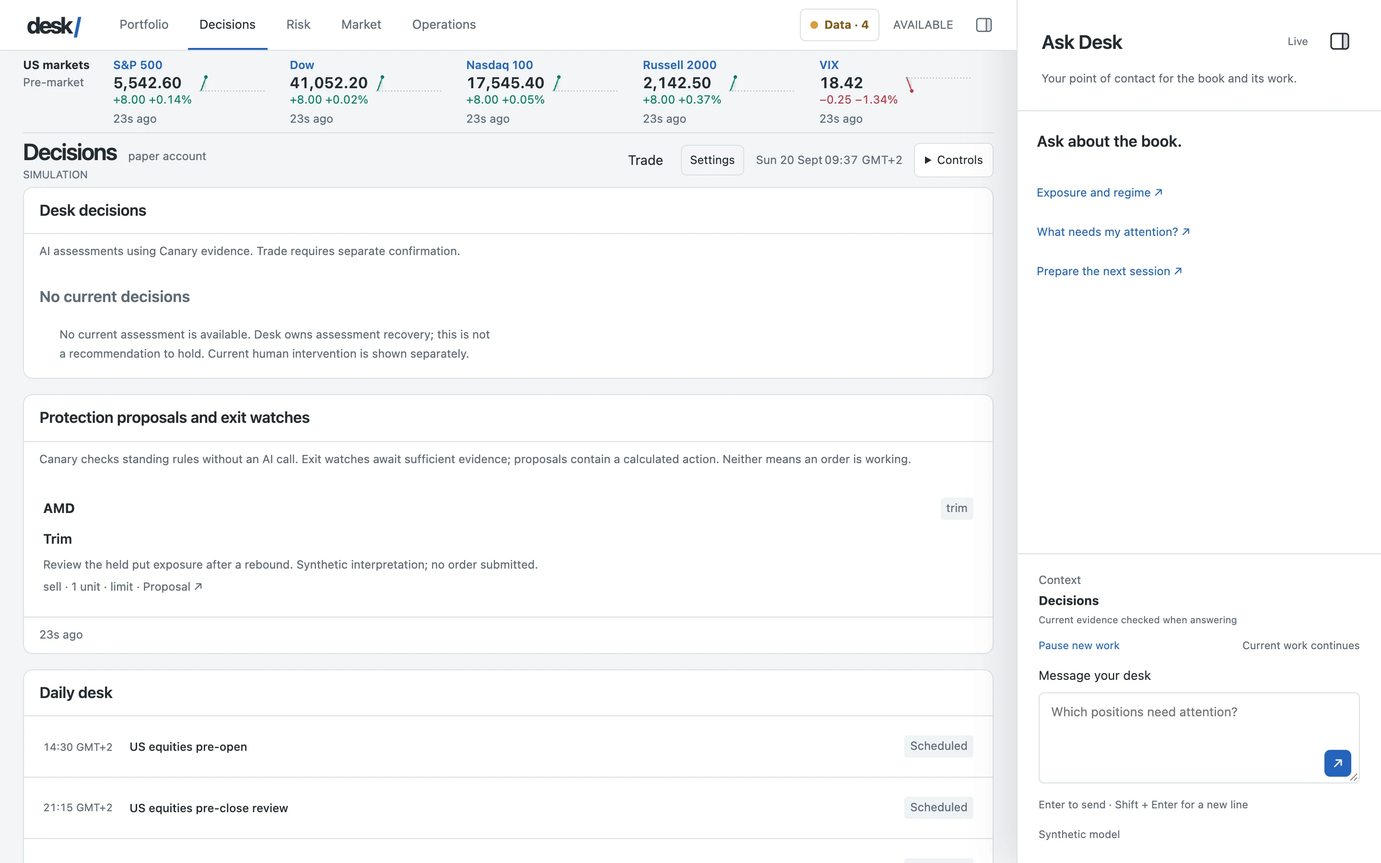
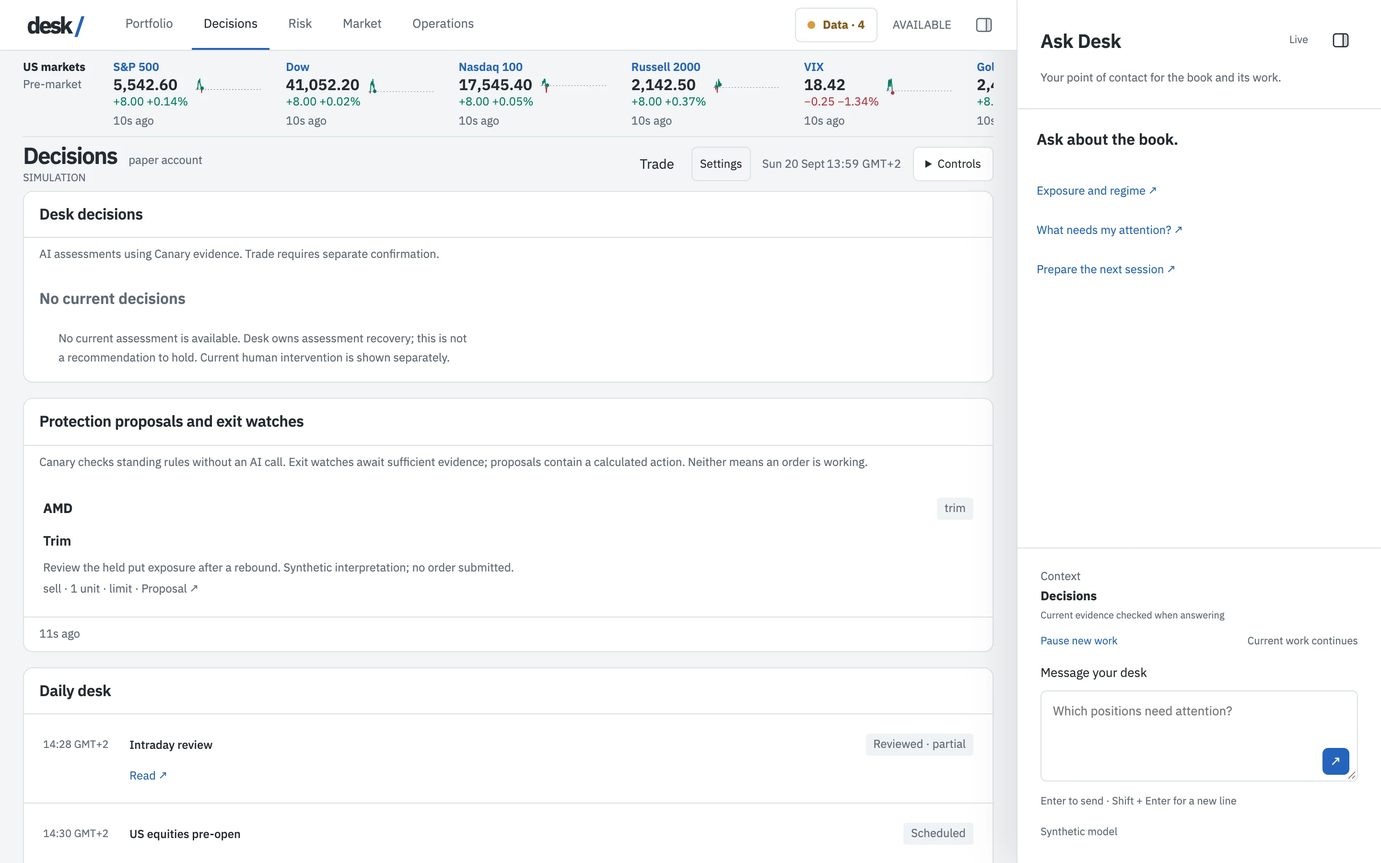
Cut the landing to punch lines, add the Desk wordmark and refresh the screenshots
- Landing: one punch line and three fragments per panel, the stack sentence
  folded into the lead, the "desk /" wordmark on the Desk panel.
- assets/desk-wordmark.svg draws the console's text wordmark from the Plex
  Bold outlines, since Desk has no logo file by design.
- Desk and Torok pages rewritten in shorter, plainer first-person copy.
- Screenshots recaptured from the improved simulation: the performance panel
  with its SPY comparison, five-minute intraday paths, statement-based P&L.
- The system diagram drops the "Phone" node, which no documented transport
  supports; the owner column is respaced.
- The capture script waits for Chrome to exit before removing its profile.

diff --git a/desk/index.html b/desk/index.html
@@ -4,14 +4,14 @@
   <meta charset="utf-8">
   <meta name="viewport" content="width=device-width, initial-scale=1">
   <title>Desk | osauer.dev</title>
-  <meta name="description" content="Desk is a private, continuously running investment agent for one Interactive Brokers book, built on Torok, Canary and HyperServe. What it does, how it is put together, and what it looks like.">
+  <meta name="description" content="Desk is the private agent that runs one Interactive Brokers book: scheduled reviews, decisions with dated evidence, a reviewed chat, and trading that needs a passkey. Built on Torok, Canary and HyperServe.">
   <link rel="canonical" href="https://osauer.dev/desk/">
   <link rel="icon" type="image/svg+xml" href="../assets/favicon.svg">
   <link rel="stylesheet" href="../assets/site.css">
   <meta property="og:type" content="website">
   <meta property="og:url" content="https://osauer.dev/desk/">
-  <meta property="og:title" content="Desk | a private investment agent that shows its work">
-  <meta property="og:description" content="A continuously running desk for one Interactive Brokers book: scheduled reviews, evidence-bound decisions, a reviewed chat, and trading that stays a human act.">
+  <meta property="og:title" content="Desk | one book, watched all day">
+  <meta property="og:description" content="A private investment agent for one Interactive Brokers book: scheduled reviews, decisions with dated evidence, a reviewed chat, and orders that need a passkey.">
   <meta property="og:image" content="https://osauer.dev/assets/desk-overview-social.jpg">
   <meta property="og:image:width" content="2880">
   <meta property="og:image:height" content="1800">
@@ -32,46 +32,47 @@
   <main>
     <section class="wrap hero">
       <p class="eyebrow">Private · investment agent</p>
-      <h1>Desk watches one investment book all day and shows its work.</h1>
-      <p class="lead">Desk is a small, private investment desk that runs as a service on a Mac. It reads a real Interactive Brokers book through Canary, keeps its schedule, memory and every decision in durable storage through Torok, and talks to its owner in plain language. It proposes. It never places an order on its own.</p>
+      <img class="wordmark" src="../assets/desk-wordmark.svg" width="245" height="96" alt="desk">
+      <h1>One book, watched all day, every decision written down.</h1>
+      <p class="lead">Desk is the private agent that runs my Interactive Brokers book. It reads the broker through Canary, keeps its work in Torok and writes down what it thinks and why. It proposes. I decide. No order leaves without my passkey.</p>
       <div class="actions">
-        <a class="button primary" href="#architecture">How it is put together</a>
+        <a class="button primary" href="#architecture">How it is built</a>
         <a class="button" href="https://www.linkedin.com/in/osauer/">Message me on LinkedIn</a>
       </div>
       <figure class="shot">
-        <img src="../assets/desk-overview.webp" width="1440" height="900" alt="The Desk console showing the Portfolio view: an account panel with net liquidation and day P&L, a holdings table, a market ribbon, and the Ask Desk conversation panel on the right" fetchpriority="high">
-        <figcaption>Portfolio, in Desk's built-in simulation mode: a synthetic paper book, a live-style quote ribbon and the standing Ask Desk panel. Every screenshot on this page comes from that mode, so nothing here is a real account.</figcaption>
+        <img src="../assets/desk-overview.webp" width="1440" height="900" alt="The Desk console showing the Portfolio view: an account panel, a portfolio performance chart with drawdowns and transfers, a holdings table with intraday charts, a market ribbon, and the Ask Desk panel on the right" fetchpriority="high">
+        <figcaption>Portfolio, in simulation mode: a synthetic paper book, live-style quotes, performance from synthetic statements, Ask Desk on the right. Every screenshot on this page comes from that mode.</figcaption>
       </figure>
     </section>
 
     <section class="block" id="what">
       <div class="wrap">
-        <h2>What Desk does</h2>
-        <p>Most of the day it does nothing, on purpose. Work happens when the calendar says so, when the book changes in a way the rules care about, or when the owner asks.</p>
+        <h2>What it does</h2>
+        <p>Most of the day, nothing. Work starts when the calendar says so, when a rule sees something, or when I ask.</p>
         <div class="cards">
           <article class="card">
-            <h3>Reviews on the market's clock</h3>
-            <p>A weekday review at 07:00 Berlin. Then preparation an hour before each enabled venue opens, an opening check, a pre-close review with a decision cutoff, and a handover after the close. Canary supplies the session times, early closes included.</p>
+            <h3>Runs on the market's clock</h3>
+            <p>07:00 Berlin, an hour before each open, at the open, before the close, after it. Session times come from Canary, early closes included.</p>
           </article>
           <article class="card">
-            <h3>Evidence before opinion</h3>
-            <p>Account, positions, risk, regime, calendar, proposals and reconciliation are retained on their own clocks, independent of any model. A decision names its sources, a reason, what would prove it wrong and when it expires.</p>
+            <h3>Evidence first</h3>
+            <p>Account, positions, risk, regime, calendar, proposals and reconciliation are kept on their own clocks. A decision names its sources, a reason, what would prove it wrong and when it expires.</p>
           </article>
           <article class="card">
             <h3>Ask Desk</h3>
-            <p>A durable conversation with the book. Each question runs interpret, evidence, analyst, review as one recoverable workflow. A separate reviewer model checks the answer against the exact evidence it was given. When something is missing, Desk says so and withholds the recommendation.</p>
+            <p>A durable conversation with the book: interpret, gather evidence, analyse, review. A second model checks the answer against the same evidence. Missing evidence means no recommendation.</p>
           </article>
           <article class="card">
-            <h3>Trading stays a human act</h3>
-            <p>Optional, and off by default. A single-leg DAY limit order is drafted by Canary, previewed by the broker, then confirmed by the owner with a passkey. The model cannot reach that handler and a chat message cannot authorise it.</p>
+            <h3>Trading is mine</h3>
+            <p>Off by default. One single-leg DAY limit order at a time, drafted by Canary, previewed by the broker, confirmed with a passkey. No model can reach that handler.</p>
           </article>
           <article class="card">
-            <h3>Spending with a ceiling</h3>
-            <p>Every provider call reserves against a monthly allowance before it is sent. Scheduled reviews get a little grace under an absolute cap. Interrupted calls are estimated and reported.</p>
+            <h3>A ceiling on spend</h3>
+            <p>Every model call reserves against a monthly allowance before it goes out. Scheduled reviews get 48 hours of grace under a hard cap.</p>
           </article>
           <article class="card">
-            <h3>Boring to operate</h3>
-            <p>One binary as a per-user LaunchAgent, health endpoints, upgrades that wait for running work to finish, and macOS notifications for the handful of things that need a person. Idle time costs no model calls.</p>
+            <h3>Dull to operate</h3>
+            <p>One binary as a LaunchAgent. Health endpoints. Upgrades wait for running work. A notification only when a person is needed.</p>
           </article>
         </div>
       </div>
@@ -79,35 +80,35 @@
 
     <section class="block" id="architecture">
       <div class="wrap">
-        <h2>How it is put together</h2>
-        <p>Desk is mostly configuration. Canary owns everything about the broker: the TWS session, prices, risk, calendars, protection proposals and reconciliation. Torok owns the work: the inbox, schedules, bounded episodes, memory and recovery. HyperServe hosts the console and its live feed on loopback. Desk supplies the instructions, chooses nineteen read-only Canary tools, wires the observers and decides what a decision must contain. Models come from OpenAI's Responses API, one for analysis and another for review and research.</p>
+        <h2>How it is built</h2>
+        <p>Desk is mostly configuration. Canary owns the broker: session, prices, risk, calendars, proposals, reconciliation. Torok owns the work: inbox, schedules, bounded episodes, memory, recovery. HyperServe serves the console on loopback. Desk adds the instructions, nineteen read-only Canary tools, the observers and the shape of a decision. Models come from OpenAI. One analyses, another reviews and researches.</p>
         <figure class="diagram">
-          <img src="../assets/desk-system.svg" width="1440" height="952" alt="System diagram of Desk: the owner's browser and macOS notifications on the left, the Desk process with HyperServe, the Torok resident service and Desk's configuration in the middle, Canary's daemon and its three access paths beside it, and TWS, IBKR statements, public market sources and the OpenAI API on the right" loading="lazy">
-          <figcaption>Every component Desk runs with and the paths between them. Green is the broker path, blue is observed data, amber is a paid model call.</figcaption>
+          <img src="../assets/desk-system.svg" width="1440" height="952" alt="System diagram of Desk: the owner, passkey, notifications and macOS on the left; the Desk process with HyperServe, the Torok resident service and Desk's capabilities in the middle; the Canary daemon and its three access paths beside it; TWS, IBKR statements, market sources, official sources and the OpenAI API on the right" loading="lazy">
+          <figcaption>Every component Desk runs with. Green is the broker path, blue is observed data, amber is a paid model call.</figcaption>
         </figure>
       </div>
     </section>
 
     <section class="block" id="screens">
       <div class="wrap">
-        <h2>Around the desk</h2>
-        <p>Five views share one masthead, one quote ribbon and the Ask Desk panel. Each figure on screen carries its source and its age, because a number without a clock is a guess.</p>
+        <h2>Screens</h2>
+        <p>Five views, one masthead, one quote ribbon, Ask Desk on the right. Every figure carries its source and its age.</p>
         <div class="gallery">
           <figure class="shot wide">
             <img src="../assets/desk-decisions.webp" width="1440" height="900" alt="The Decisions view: Desk decisions, Canary protection proposals and exit watches, and the day's scheduled reviews" loading="lazy">
-            <figcaption>Decisions: AI assessments next to Canary's rule-based proposals and exit watches, with the day's scheduled reviews underneath.</figcaption>
+            <figcaption>Decisions: AI assessments beside Canary's rule-based proposals and exit watches, then the day's scheduled reviews.</figcaption>
           </figure>
           <figure class="shot phone">
-            <img src="../assets/phone-overview.webp" width="390" height="844" alt="The Portfolio view on a phone-sized screen" loading="lazy">
-            <figcaption>The same console on a phone, over the same loopback service.</figcaption>
+            <img src="../assets/phone-overview.webp" width="390" height="844" alt="The Portfolio view at phone width" loading="lazy">
+            <figcaption>The console at phone width.</figcaption>
           </figure>
           <figure class="shot wide">
-            <img src="../assets/desk-risk.webp" width="1440" height="900" alt="The Risk view: book exposure figures, the risk assessment and financing and margin values" loading="lazy">
-            <figcaption>Risk: book exposure, the current assessment and financing figures, each tagged with where it came from.</figcaption>
+            <img src="../assets/desk-risk.webp" width="1440" height="900" alt="The Risk view: book exposure, the risk assessment and financing and margin values" loading="lazy">
+            <figcaption>Risk: exposure, the current assessment and financing, each tagged with where it came from.</figcaption>
           </figure>
           <figure class="shot full">
             <img src="../assets/desk-operations.webp" width="1440" height="900" alt="The Operations view: pause and budget controls, reduction advice, and a day timeline with calendar, Desk agenda and agent work" loading="lazy">
-            <figcaption>Operations: the day on a timeline. Market hours and events, Desk's own agenda, the agent's work, and the pause and budget controls.</figcaption>
+            <figcaption>Operations: the day on a timeline. Market hours, Desk's agenda, the agent's work, pause and budget.</figcaption>
           </figure>
         </div>
       </div>
@@ -117,10 +118,10 @@
       <div class="wrap">
         <h2>What it is not</h2>
         <ul class="notes">
-          <li><strong>Not a product.</strong> There is no download and no repository link. It runs one book, mine.</li>
-          <li><strong>No claim of edge.</strong> Operational correctness and investment results are measured separately, and building the thing establishes neither.</li>
-          <li><strong>One machine.</strong> A user LaunchAgent runs while the Mac is awake and logged in. That is a known limit.</li>
-          <li><strong>Simulation in the pictures.</strong> The screenshots use Desk's simulation mode with a synthetic book. The real screens look the same with real numbers, which is exactly why they are not here.</li>
+          <li><strong>Not a product.</strong> No download, no repository. It runs one book, mine.</li>
+          <li><strong>No claim of edge.</strong> Correct operation and investment results are measured separately. Building it proves neither.</li>
+          <li><strong>One machine.</strong> A user LaunchAgent, running while the Mac is awake and logged in.</li>
+          <li><strong>Simulation in the pictures.</strong> Real screens look the same with real numbers, which is why they are not here.</li>
         </ul>
       </div>
     </section>
@@ -128,8 +129,8 @@
     <section class="block" id="contact">
       <div class="wrap contact">
         <div>
-          <h2>Talk to me</h2>
-          <p>Desk is not published, but the ideas in it are worth arguing about: evidence contracts, a reviewer model that is not the analyst checking its own work, spending that is reserved before the request goes out. If you are building something in this space, I would like to hear about it.</p>
+          <h2>Contact</h2>
+          <p>Desk stays private, but the ideas travel: evidence contracts, a reviewer that is not the analyst, spend reserved before the request. If you are building something like it, write to me.</p>
         </div>
         <div class="actions">
           <a class="button primary" href="https://www.linkedin.com/in/osauer/">Message me on LinkedIn</a>

diff --git a/torok/index.html b/torok/index.html
@@ -10,7 +10,7 @@
   <link rel="stylesheet" href="../assets/site.css">
   <meta property="og:type" content="website">
   <meta property="og:url" content="https://osauer.dev/torok/">
-  <meta property="og:title" content="Torok | agents that survive being interrupted">
+  <meta property="og:title" content="Torok | agents in plain Go that survive a restart">
   <meta property="og:description" content="A Go library for tool-using agents and workflows written as ordinary Go functions. It runs the tool loop, checks typed answers and commits progress.">
   <style>
     .states { display: flex; flex-wrap: wrap; gap: 8px; margin: 18px 0 0; padding: 0; list-style: none; }
@@ -34,8 +34,8 @@
     <section class="wrap hero split">
       <div>
         <p class="eyebrow">Private · Go library</p>
-        <h1>Torok runs agents that survive being interrupted.</h1>
-        <p class="lead">Torok is a Go library for agents that use tools, and for workflows written as ordinary Go functions. You bring a model and your functions. Torok runs the tool loop, checks typed answers and commits progress, so a run resumes after a person answers a question or the process restarts. Desk runs on it.</p>
+        <h1>Agents in plain Go that survive a restart.</h1>
+        <p class="lead">Torok runs the tool loop, checks typed answers and commits progress, so a run resumes after a person answers or the process comes back. You bring a model and ordinary Go functions. Desk runs on it.</p>
         <div class="actions">
           <a class="button primary" href="#architecture">Runtime architecture</a>
           <a class="button" href="https://www.linkedin.com/in/osauer/">Message me on LinkedIn</a>
@@ -59,31 +59,31 @@ fmt.Println(*result.Value)</code></pre>
     <section class="block" id="what">
       <div class="wrap">
         <h2>What it gives you</h2>
-        <p>The shape is deliberately small: generic methods where a type belongs on a value, ordinary functions for behaviour, named configuration fields. There is no graph DSL, no builder chain and no hidden session handoff.</p>
+        <p>The surface is small on purpose: generic methods where a type belongs on a value, plain functions for behaviour, named config fields. No graph DSL, no builder chain.</p>
         <div class="cards">
           <article class="card">
             <h3>Plain Go</h3>
-            <p>An agent is configuration: model, instructions, tools, checks. A workflow is a function of a context, a <code>Flow</code> and your input. A tool is <code>func(ctx, In) (Out, error)</code> with JSON tags. <code>RunAs[T]</code> names the answer type once, at the model boundary.</p>
+            <p>An agent is configuration. A workflow is a function of a context, a <code>Flow</code> and your input. A tool is <code>func(ctx, In) (Out, error)</code>. <code>RunAs[T]</code> names the answer type once.</p>
           </article>
           <article class="card">
             <h3>Progress that survives</h3>
-            <p>A batch of model calls commits before any tool runs. Workflows replay from their checkpoints after a restart. A human question or an approval parks the run and frees the worker; the answer resumes it, once, even if it arrives twice.</p>
+            <p>Model calls commit before any tool runs. Workflows replay from checkpoints. A question or an approval parks the run and frees the worker. The answer resumes it once, even if it arrives twice.</p>
           </article>
           <article class="card">
             <h3>One set of limits</h3>
-            <p>Model calls, tool calls, steps, depth, concurrency, active time and tokens are set on the root and shared by every child. A spend ledger reserves money before the HTTP request and settles on the receipt, the rejection or an estimate.</p>
+            <p>Calls, steps, depth, concurrency, active time and tokens are set on the root and shared by every child. A spend ledger reserves money before the request and settles on the receipt.</p>
           </article>
           <article class="card">
             <h3>Effects with receipts</h3>
-            <p>Intent is committed before an effect starts. If the result is lost, the run waits for reconciliation rather than retrying blind. Tools are effectful unless the application promises otherwise, and an approval freezes the exact call it approves.</p>
+            <p>Intent commits before an effect starts. A lost result waits for reconciliation instead of a blind retry. An approval freezes the exact call it approves.</p>
           </article>
           <article class="card">
             <h3>A resident service</h3>
-            <p>For agents that stay on: a durable inbox with idempotent IDs, timers, bounded working memory, independent observers with their own freshness, daily admission budgets and pause. Idle waiting costs no inference.</p>
+            <p>For agents that stay on: a durable inbox, timers, bounded memory, observers with their own freshness, daily admission budgets, pause. Idle costs nothing.</p>
           </article>
           <article class="card">
             <h3>Adapters, not a framework</h3>
-            <p>Responses and Chat Completions. Stdio MCP with a frozen catalogue. Bounded HTTPS retrieval and processes. An HTTP and SSE control surface you mount inside your own server. Each one passes through the same accounting.</p>
+            <p>Responses and Chat Completions. Stdio MCP with a frozen catalogue. Bounded HTTPS and processes. An HTTP and SSE surface you mount in your own server.</p>
           </article>
         </div>
         <ul class="states" aria-label="Run states">
@@ -95,7 +95,7 @@ fmt.Println(*result.Value)</code></pre>
     <section class="block" id="architecture">
       <div class="wrap">
         <h2>Runtime architecture</h2>
-        <p>The engine sits between the application's functions and the store. Model and tool adapters are the only code that leaves the process, and both report to the same limits. The resident service and the HTTP adapter are optional layers on the same runtime. Neither adds a second execution engine.</p>
+        <p>The engine sits between your functions and the store. Model and tool adapters are the only code that leaves the process, and both report to the same limits. The resident service and the HTTP adapter sit on the same runtime. There is no second engine.</p>
         <figure class="diagram">
           <img src="../assets/torok-architecture.svg" width="1440" height="960" alt="Architecture diagram of Torok: the application's agents, workflows and tools on the left, the execution engine with its limits, checks and recovery in the middle, memory or SQLite storage below it, model and tool adapters reaching providers and external systems on the right, with the resident service and the HTTP adapter as optional layers" loading="lazy">
           <figcaption>One engine, one store, two kinds of adapter, and the optional resident service around them. Amber marks a paid model call.</figcaption>
@@ -110,7 +110,7 @@ fmt.Println(*result.Value)</code></pre>
           <li><strong>Race tests</strong> cover storage, sessions, typed repair, shared child limits, nested concurrency, approvals, ambiguous commits and event replay.</li>
           <li><strong>Child-process tests</strong> kill the process after a real effect and before its receipt is saved, then require reconciliation without repeating the effect.</li>
           <li><strong>A Lean 4 model</strong> of the acceptance boundary proves that a result is accepted only with an explained, passing check for every declared criterion, bound to that exact candidate and its original input. CI runs it and also checks that removing the guard makes the proof fail.</li>
-          <li><strong>Model quality is a separate question.</strong> Scripted fixtures establish execution behaviour. What a live model does with the same tools has to be evaluated on real tasks with a budget and a human grader.</li>
+          <li><strong>Model quality is a separate question.</strong> Scripted fixtures prove execution. What a live model does with the same tools needs real tasks, a budget and a human grader.</li>
         </ul>
       </div>
     </section>
@@ -118,8 +118,8 @@ fmt.Println(*result.Value)</code></pre>
     <section class="block" id="contact">
       <div class="wrap contact">
         <div>
-          <h2>Status and contact</h2>
-          <p>Torok is private and its API is experimental. It needs Go 1.27 and has three direct dependencies: an SQLite driver, a JSON Schema validator and a PDF text reader. If you want to compare notes on durable agents, or on what "accepted" should mean, send me a message.</p>
+          <h2>Status</h2>
+          <p>Private, experimental API, Go 1.27, three direct dependencies: SQLite, JSON Schema, a PDF reader. If you want to argue about what "accepted" should mean, write to me.</p>
         </div>
         <div class="actions">
           <a class="button primary" href="https://www.linkedin.com/in/osauer/">Message me on LinkedIn</a>

diff --git a/index.html b/index.html
@@ -4,7 +4,7 @@
   <meta charset="utf-8">
   <meta name="viewport" content="width=device-width, initial-scale=1">
   <title>osauer.dev</title>
-  <meta name="description" content="Projects by Oliver Sauer: Canary for local Interactive Brokers workflows, Desk, a private investment agent, Torok, a Go library for durable agents, and HyperServe, a Go HTTP server library.">
+  <meta name="description" content="Projects by Oliver Sauer: Canary, an Interactive Brokers MCP server and CLI; Desk, a private investment agent; Torok, a Go library for durable agents; HyperServe, a Go HTTP server library.">
   <link rel="canonical" href="https://osauer.dev/">
   <link rel="icon" type="image/svg+xml" href="assets/favicon.svg">
   <link rel="stylesheet" href="assets/site.css">
@@ -29,18 +29,17 @@
   <main>
     <section class="wrap hero">
       <h1>Small tools for local systems, agents and Go services.</h1>
-      <p class="lead">This is the index for the projects I maintain. Two are open source and installable. Two are private, so their pages describe what they do, with screenshots or a diagram, instead of linking to code.</p>
-      <p class="stack">They fit together: <a href="desk/"><i class="dot" data-dot="ink"></i>Desk</a> runs on <a href="torok/"><i class="dot" data-dot="amber"></i>Torok</a>, reads the market through <a href="canary/"><i class="dot" data-dot="green"></i>Canary</a> and is served by <a href="hyperserve/"><i class="dot" data-dot="blue"></i>HyperServe</a>.</p>
+      <p class="lead stack"><a href="desk/"><i class="dot" data-dot="ink"></i>Desk</a> runs on <a href="torok/"><i class="dot" data-dot="amber"></i>Torok</a>, reads the market through <a href="canary/"><i class="dot" data-dot="green"></i>Canary</a> and is served by <a href="hyperserve/"><i class="dot" data-dot="blue"></i>HyperServe</a>. Two of the four are open source.</p>
     </section>
     <section class="wrap panels" aria-label="Project panels">
       <article class="panel" data-accent="green">
-        <p class="label">Broker data and MCP · open source</p>
+        <p class="label">Interactive Brokers · MCP · open source</p>
         <h2><img src="assets/canary-icon.png" width="192" height="192" alt="">Canary</h2>
-        <p>A local Interactive Brokers MCP server, CLI and risk desk. It connects Claude Desktop, Claude Code, Cursor, Zed and shell workflows to account and market context from IB Gateway or TWS.</p>
+        <p>Your IBKR session, readable by Claude and the shell.</p>
         <ul class="points">
-          <li>The Claude Desktop MCP bundle is the fastest install path.</li>
-          <li>Standard builds and MCP are read-only; gated broker writes need a separate opt-in trading build.</li>
-          <li>Useful for portfolio review, options diagnostics, scanners, breadth, gamma and regime context.</li>
+          <li>Read-only MCP server and CLI</li>
+          <li>Risk, options and regime context</li>
+          <li>Paired app with a daily brief</li>
         </ul>
         <div class="actions">
           <a class="button primary" href="canary/">Open Canary</a>
@@ -49,12 +48,12 @@
       </article>
       <article class="panel" data-accent="ink">
         <p class="label">Private · investment agent</p>
-        <h2>Desk</h2>
-        <p>A continuously running desk for one Interactive Brokers book. It reviews the book on the market's clock, keeps evidence and decisions in durable storage, answers questions through a reviewed workflow and leaves every trade to a passkey-confirmed human step.</p>
+        <h2><img class="wordmark" src="assets/desk-wordmark.svg" width="245" height="96" alt="desk"></h2>
+        <p>One book, watched all day, every decision written down.</p>
         <ul class="points">
-          <li>Built on Torok for durable work, Canary for broker facts and HyperServe for the console.</li>
-          <li>Every decision carries its sources, a reason, what would prove it wrong and an expiry.</li>
-          <li>A monthly model allowance with a hard ceiling. Idle time costs nothing.</li>
+          <li>Runs on Torok, reads through Canary</li>
+          <li>Answers reviewed against dated evidence</li>
+          <li>Orders need a passkey, never a prompt</li>
         </ul>
         <div class="actions">
           <a class="button primary" href="desk/">Read about Desk</a>
@@ -63,11 +62,11 @@
       <article class="panel" data-accent="amber">
         <p class="label">Private · Go library</p>
         <h2>Torok</h2>
-        <p>A Go library for agents that use tools, and for workflows written as plain Go functions. It runs the tool loop, checks typed answers and commits progress, so work resumes after a person answers or the process restarts.</p>
+        <p>Agents in plain Go that survive a restart.</p>
         <ul class="points">
-          <li>Agents are configuration, workflows are functions, tools are ordinary Go signatures.</li>
-          <li>One set of limits shared by every child call, with a spend ledger that reserves before the request goes out.</li>
-          <li>A resident service adds an inbox, timers, memory and observers for agents that stay on.</li>
+          <li>Typed answers, committed progress</li>
+          <li>One budget for every child call</li>
+          <li>Waits for a human without a worker</li>
         </ul>
         <div class="actions">
           <a class="button primary" href="torok/">Read about Torok</a>
@@ -76,11 +75,11 @@
       <article class="panel" data-accent="blue">
         <p class="label">Go HTTP server library · open source</p>
         <h2>HyperServe</h2>
-        <p>A <code>net/http</code>-shaped Go server library. It keeps ordinary handlers, collects lifecycle, typed boundaries, security, observability and WebSocket in one module, and can expose an MCP server from the same binary when that is useful.</p>
+        <p><code>net/http</code>, plus the parts you keep rewriting.</p>
         <ul class="points">
-          <li>Built on the standard library, with one runtime dependency.</li>
-          <li>Includes middleware, graceful shutdown, static-file sandboxing, WebSocket, SSE and JSON-RPC pieces.</li>
-          <li>MCP support is opt-in, with Streamable HTTP and stdio sharing one handler.</li>
+          <li>Typed binding, graceful shutdown</li>
+          <li>WebSocket, SSE, JSON-RPC</li>
+          <li>MCP server, opt-in</li>
         </ul>
         <div class="actions">
           <a class="button primary" href="hyperserve/">Open HyperServe</a>

diff --git a/assets/site.css b/assets/site.css
@@ -126,20 +126,14 @@ h1 {
 .button.primary:hover { background: var(--accent-dark); border-color: var(--accent-dark); }
 .button svg { width: 18px; height: 18px; }
 
-.stack {
-  max-width: 760px;
-  margin: 24px 0 0;
-  color: var(--muted);
-  font-size: 16px;
-  line-height: 1.7;
-}
+.stack { line-height: 1.55; }
 .stack a { color: var(--ink); font-weight: 650; text-decoration: none; white-space: nowrap; }
 .stack a:hover { text-decoration: underline; }
 .stack .dot {
   display: inline-block;
-  width: 9px;
-  height: 9px;
-  margin: 0 6px 1px 0;
+  width: 10px;
+  height: 10px;
+  margin: 0 7px 2px 0;
   border-radius: 50%;
   background: var(--muted);
   vertical-align: middle;
@@ -159,7 +153,7 @@ h1 {
   display: flex;
   flex-direction: column;
   align-items: flex-start;
-  min-height: 390px;
+  min-height: 0;
   padding: 28px;
   border: 1px solid var(--line);
   border-radius: 8px;
@@ -187,6 +181,8 @@ h1 {
   letter-spacing: 0;
 }
 .panel h2 img { width: 44px; height: 44px; border-radius: 10px; box-shadow: 0 8px 18px rgba(16, 24, 39, 0.14); }
+.panel h2 img.wordmark { width: auto; height: 46px; border-radius: 0; box-shadow: none; }
+.hero img.wordmark { display: block; width: auto; height: 60px; margin: 0 0 18px; }
 .panel p { margin: 18px 0 0; color: var(--ink-soft); font-size: 17px; }
 .panel h2, .panel p, .panel .points { align-self: stretch; }
 .points {
@@ -196,7 +192,7 @@ h1 {
   padding: 0;
   list-style: none;
 }
-.points li { position: relative; padding-left: 18px; color: var(--muted); font-size: 15px; }
+.points li { position: relative; padding-left: 18px; color: var(--muted); font-size: 15.5px; }
 .points li::before {
   content: "";
   position: absolute;
